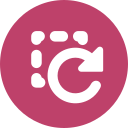
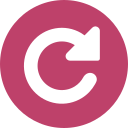
Remove all traces of select all tabs function

Changed region(s): [[0.1875, 0.1875, 0.8125, 0.8125]]

diff --git a/background.js b/background.js
@@ -1,34 +1,10 @@
 // Set an initial value for settings on install
-chrome.runtime.onInstalled.addListener(() => {
-  chrome.storage.local.set({ clickAction: "refresh-tabs" }, function () {
-    console.log("Initial setting set...");
-  });
-});
-
 function refreshAllTabs() {
   // Get all tabs
   chrome.tabs.query({ currentWindow: true }, (tabs) => {
     tabs.forEach((tab) => {
       chrome.tabs.reload(tab.id);
     });
-
-    // notify completion
-    flashBadge("✓", 3000);
-  });
-}
-
-function selectAllTabs() {
-  // Get all tabs
-  chrome.tabs.query({ currentWindow: true }, (tabs) => {
-    chrome.tabs.highlight({ tabs: Array.from(Array(tabs.length).keys()) });
-
-    // tabs.forEach((tab) => {
-    //   chrome.tabs.update(tab.id, { selected: true });
-    // });
-
-    // tabs.forEach((tab) => {
-    //   chrome.tabs.update(tab.id, { highlighted: true });
-    // });
 
     // notify completion
     flashBadge("✓", 3000);
@@ -47,29 +23,10 @@ function flashBadge(symbol, duration) {
 chrome.commands.onCommand.addListener((command) => {
   if (command === "refresh-tabs") {
     refreshAllTabs();
-  } else if (command === "select-tabs") {
-    // BUG: selecting doesn't work, refresh only for now
-    refreshAllTabs();
-    // selectAllTabs();
   }
 });
 
 // Extension icon click listener
 chrome.action.onClicked.addListener(() => {
-  chrome.storage.local.get({ clickAction: "refresh-tabs" }, (items) => {
-    const action = items.clickAction;
-
-    if (action === "refresh-tabs") {
-      refreshAllTabs();
-    } else if (action === "select-tabs") {
-      // BUG: selecting doesn't work, refresh only for now
-      refreshAllTabs();
-      // selectAllTabs();
-    }
-  });
+  refreshAllTabs();
 });
-
-// Open the options on install
-// chrome.runtime.onInstalled.addListener(() => {
-//   chrome.runtime.openOptionsPage();
-// });

diff --git a/README.md b/README.md
@@ -1,11 +1,11 @@
-# Reload and Select All Tabs Browser Extension:
+# Reload All Tabs Browser Extension:
 ![icon](/icons/48.png)
 
 A chromium based browser extension created for [@Vivipop](https://forum.vivaldi.net/user/vivipop) on the Vivaldi Browser Forums.
 
 ## Features
-* Click the extension icon to either select all tabs or reload all tabs (configurable in options with both actions available in the extension button's context menu).
-* Keyboard shortcut option to perform the same actions.
+* Click the extension icon to reload all tabs in the current window
+* Keyboard shortcut option to perform the same action
   * Make sure to set the keyboard shortcuts to `Global` instead of `in Vivaldi` to get them to work
 
 ## Installation
